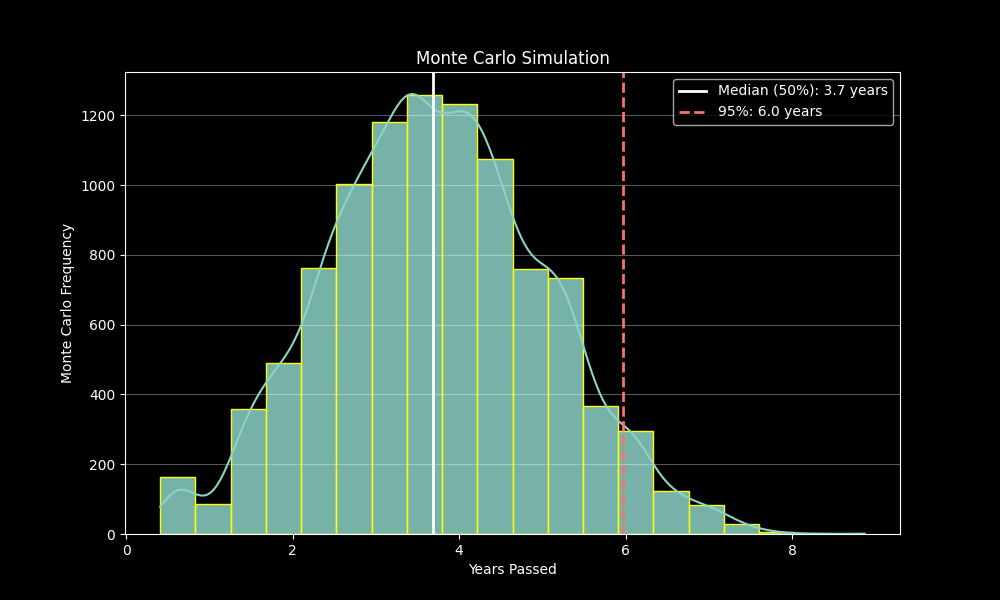
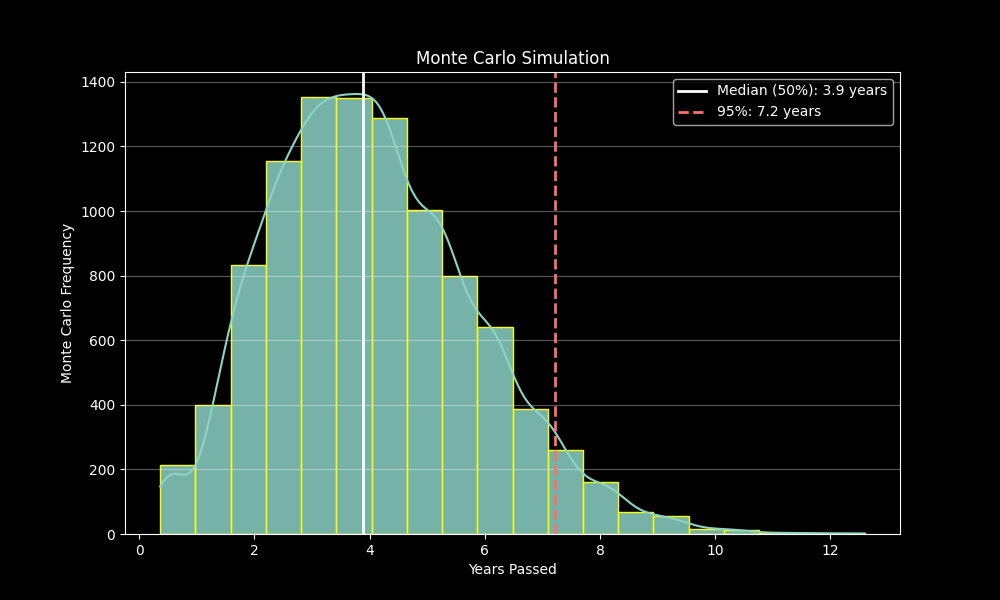
changed eb3 parameters

diff --git a/scripts/macros.py b/scripts/macros.py
@@ -1,10 +1,10 @@
 import os
 
 # --- Simulation Configuration ---
-COUNTRY = "India"
-PREFERENCE = "EB3"
-TARGET_DATE = "2015-08-31"
-VISA_BULLETIN_DATE = "2013-07-15"
+COUNTRY = "China"
+PREFERENCE = "EB2"
+TARGET_DATE = "2025-09-01"
+VISA_BULLETIN_DATE = "2021-09-01"
 WANT_BULLETIN = True
 SIMS = 10000
 N_YEARS = 100
@@ -27,8 +27,8 @@ SPILLOVER_RANGES = {
     "extreme": (100000, 160000)
 }
 SPILLOVER_PROBS = [0.3, 0.35, 0.25, 0.08, 0.02]
-EB3_SPILLOVER_LOWER_BOUND = 0.2
-EB3_SPILLOVER_UPPER_BOUND = 0.4
+EB3_SPILLOVER_LOWER_BOUND = 0.1
+EB3_SPILLOVER_UPPER_BOUND = 0.35
 # Dependency Ratio (Triangular Distribution)
 DEP_RATIO_LEFT = 1.9
 DEP_RATIO_RIGHT = 3.0
